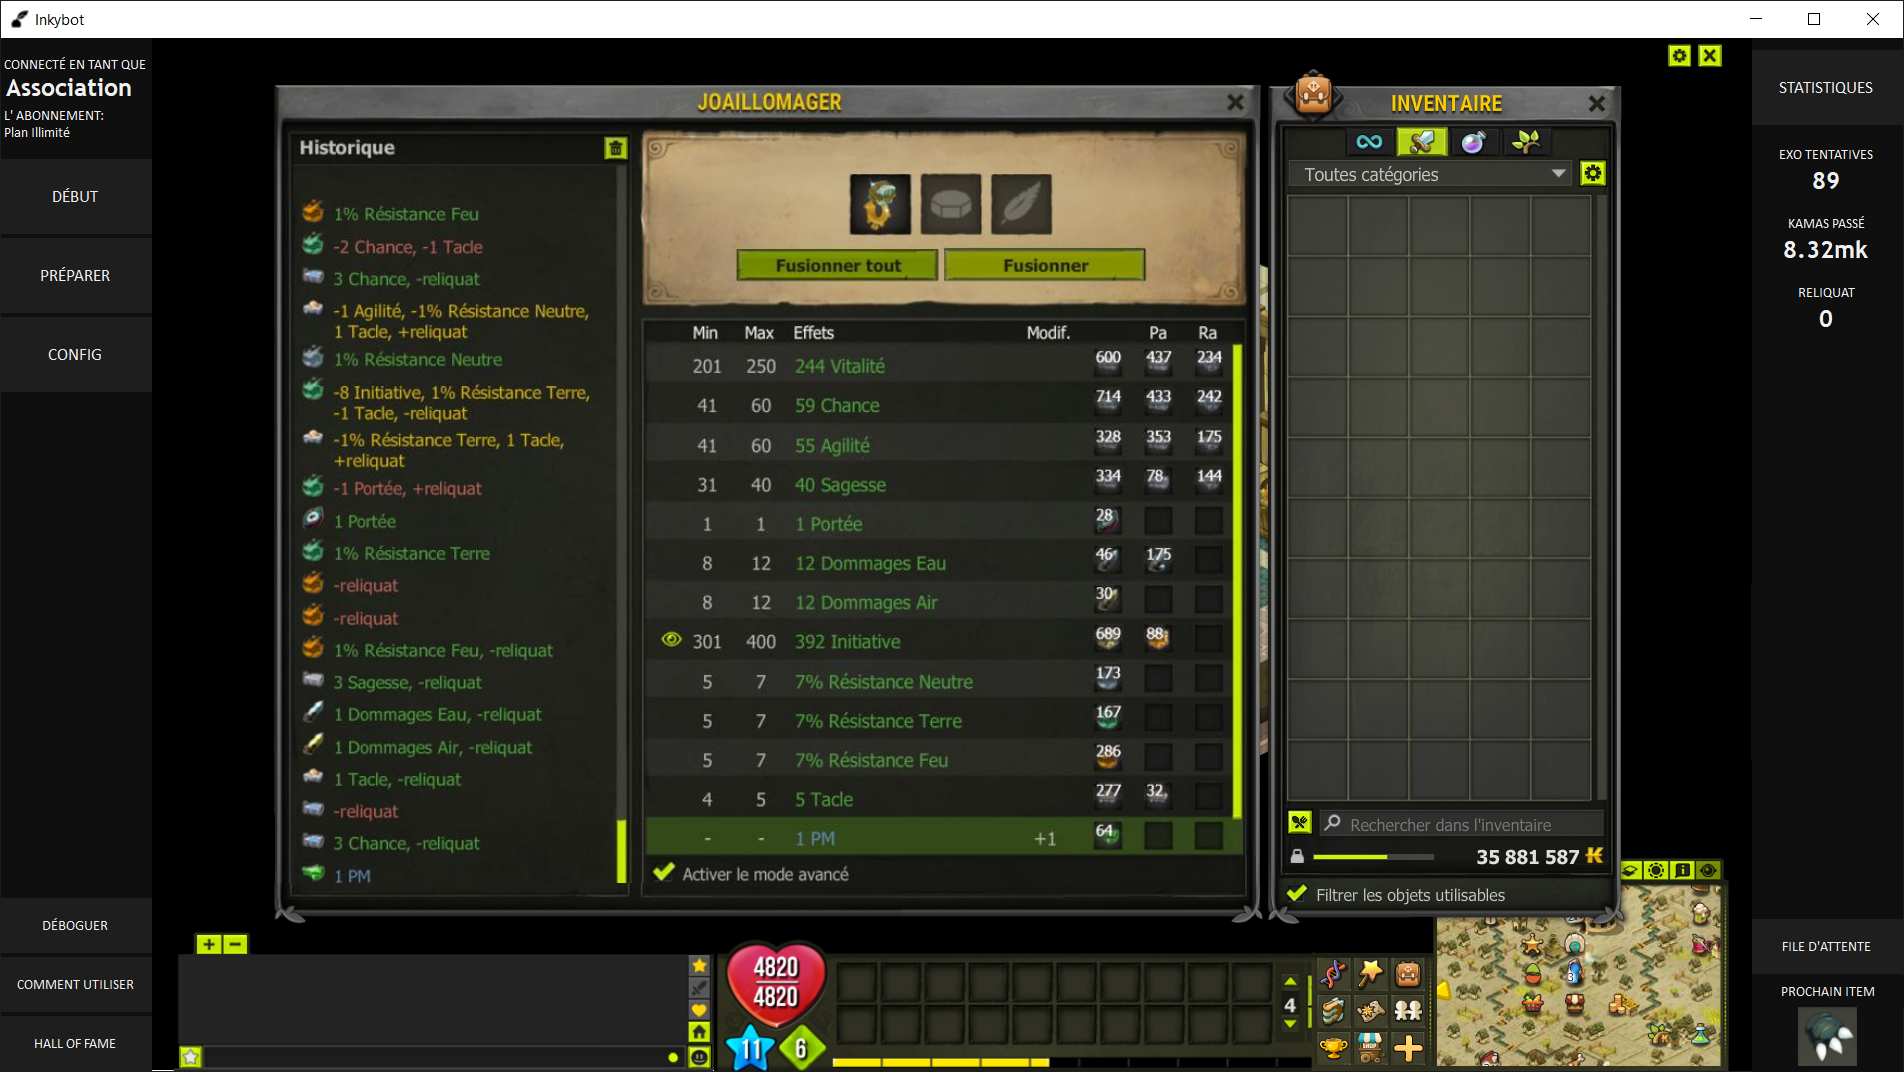
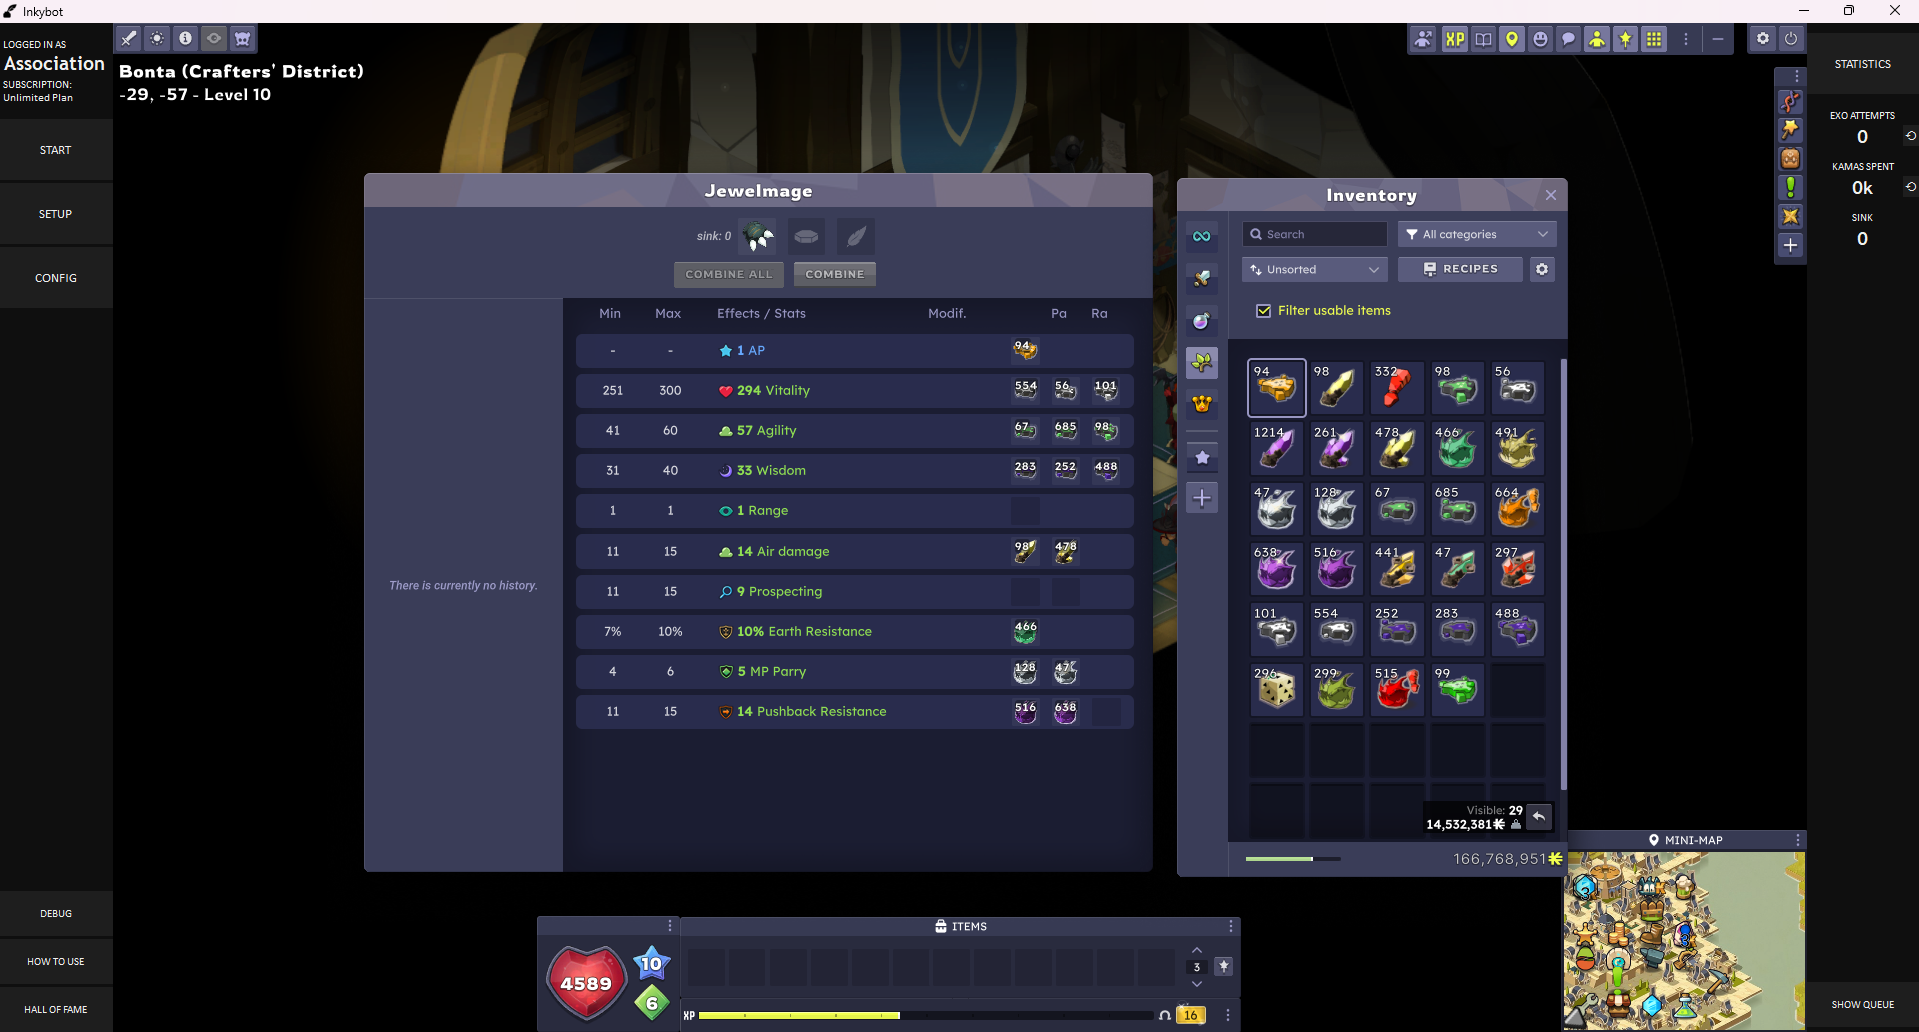
inky v3.0, free for now, release notes, etc

diff --git a/resources/views/release/22.blade.php b/resources/views/release/22.blade.php
@@ -1,0 +1,219 @@
+@extends('layouts.release')
+
+@section('date', '22nd December 2024')
+@section('welcome', 'Welcome to the first release of this series!')
+
+@section('content')
+
+    <section class="bg-white py-8 border-b">
+
+
+        <div class="container mx-auto flex flex-col lg:flex-row pt-4 pb-12">
+
+            <div class="mx-auto flex flex-col w-full lg:w-3/5 p-6">
+
+                <h2 class="w-full my-2 text-5xl font-bold leading-tight text-gray-800">What's changed</h2>
+                <div class="w-full mb-4">
+                    <div class="h-1 gradient w-64 opacity-25 my-0 py-0 rounded-t"></div>
+                </div>
+
+                <ul class="text-black">
+                    <li class="p-3 pl-0 flex">
+                        <i class="fas fa-plus text-3xl mr-3"></i>
+                        <span class="pt-1">
+                            Compatibility with <strong>Dofus 3</strong>
+                        </span>
+                    </li>
+                    <li class="p-3 pl-0 flex">
+                        <i class="fas fa-plus text-3xl mr-3"></i>
+                        <span class="pt-1">
+                            Improved <strong>consistency</strong> of operating system actions: screenshots, input events
+                        </span>
+                    </li>
+                    <li class="p-3 pl-0 flex">
+                        <i class="fas fa-plus text-3xl mr-3"></i>
+                        <span class="pt-1">
+                            Improved compatibility to mage <strong>several more items</strong> within Dofus
+                        </span>
+                    </li>
+                    <li class="p-3 pl-0 flex">
+                        <i class="fas fa-plus text-3xl mr-3"></i>
+                        <span class="pt-1">
+                            Adapted hall of fame screenshots to <strong>hide</strong> the underlying user's personal information
+                        </span>
+                    </li>
+                    <li class="p-3 pl-0 flex">
+                        <i class="fas fa-plus text-3xl mr-3"></i>
+                        <span class="pt-1">
+                            Improved <strong>detaching</strong> of Inkybot from Dofus when the window is closed so you needn't restart Dofus to
+                            exit Inkybot
+                        </span>
+                    </li>
+                </ul>
+
+                <h2 class="w-full my-2 text-5xl font-bold leading-tight text-gray-800 mt-10">What's broken</h2>
+                <div class="w-full mb-4">
+                    <div class="h-1 gradient w-64 opacity-25 my-0 py-0 rounded-t"></div>
+                </div>
+
+                <ul class="text-black">
+                    <li class="p-3 pl-0 flex">
+                        <i class="fas fa-minus text-3xl mr-3"></i>
+                        <span class="pt-1">
+                            Reduced <strong>OCR accuracy</strong> due to changes in fine-tuning for new Dofus interface
+                            This includes: incorrect sink reading, minimum and maximum values. Current stat value readings
+                            appear to be consistently correct.
+                        </span>
+                    </li>
+                    <li class="p-3 pl-0 flex">
+                        <i class="fas fa-minus text-3xl mr-3"></i>
+                        <span class="pt-1">
+                            The maging history is no longer parsed, which has <strong>weakened safeguards</strong> that verify
+                            that Inkybot is behaving as expected
+                        </span>
+                    </li>
+                    <li class="p-3 pl-0 flex">
+                        <i class="fas fa-minus text-3xl mr-3"></i>
+                        <span class="pt-1">
+                            Injected input commands no longer function, Inkybot now <strong>takes full control</strong> of your mouse and keyboard during operation
+                        </span>
+                    </li>
+                    <li class="p-3 pl-0 flex">
+                        <i class="fas fa-minus text-3xl mr-3"></i>
+                        <span class="pt-1">
+                            Inkybot must always be attached to the Dofus window <strong>after you've logged in</strong> and selected your character, or the window freezes
+                        </span>
+                    </li>
+                </ul>
+
+
+                <h2 class="w-full my-2 text-5xl font-bold leading-tight text-gray-800 mt-10">Upcoming</h2>
+                <div class="w-full mb-4">
+                    <div class="h-1 gradient w-64 opacity-25 my-0 py-0 rounded-t"></div>
+                </div>
+
+                <ul class="text-black">
+                    <li class="p-3 pl-0 flex">
+                        <i class="fas fa-clock text-3xl mr-3"></i>
+                        <span class="pt-1">Improve <strong>OCR accuracy</strong> which will improve general behavior of the bot (fewer crashes, unexpected interrupts)</span>
+                    </li>
+                    <li class="p-3 pl-0 flex">
+                        <i class="fas fa-clock text-3xl mr-3"></i>
+                        <span class="pt-1">Enable the use of Inkybot in the <strong>background</strong> (so it doesn't take control of your cursor)</span>
+                    </li>
+                    <li class="p-3 pl-0 flex">
+                        <i class="fas fa-clock text-3xl mr-3"></i>
+                        <span class="pt-1">Bring back several <strong>safeguards</strong></span>
+                    </li>
+                    <li class="p-3 pl-0 flex">
+                        <i class="fas fa-clock text-3xl mr-3"></i>
+                        <span class="pt-1">Improve <strong>speed</strong> of Inkybot operation
+                    </li>
+                    <li class="p-3 pl-0 flex">
+                        <i class="fas fa-clock text-3xl mr-3"></i>
+                        <span class="pt-1">Rewrite <strong>usage instructions</strong> and rebrand website with Dofus 3 screenshots
+                    </li>
+                    <li class="p-3 pl-0 flex">
+                        <i class="fas fa-clock text-3xl mr-3"></i>
+                        <span class="pt-1">Fix <strong>cryptocurrency</strong> payments
+                    </li>
+                </ul>
+
+            </div>
+
+            <x-limitations :restrictions="['administrator', '1920x1080-recommend', 'mouse']" />
+        </div>
+
+    </section>
+
+    <div class="anchor" id="usage"></div>
+    <section class="bg-gray-100 py-8 pb-12">
+
+        <div class="container mx-auto px-2 pt-4 pb-2 text-gray-800">
+
+            <h2 class="w-full my-2 text-5xl font-bold leading-tight text-center text-gray-800">How to use</h2>
+            <div class="w-full mb-4">
+                <div class="h-1 mx-auto gradient w-64 opacity-25 my-0 py-0 rounded-t"></div>
+            </div>
+
+            <div class="px-4 lg:px-0">
+                <h3 class="mt-10 w-full text-xl font-bold leading-tight text-gray-700 uppercase">
+                    1. Open Inkybot as administrator and Login
+                </h3>
+                <p class="text-base">You will need to login to your Inkybot account to gain access to the Dofus client. From there on
+                    you can login to your Dofus account as you would normally.</p>
+            </div>
+
+            <img src="{{ asset('images/releases/login.jpg') }}" class="shadow-lg rounded-t rounded-b-xl my-4" alt="Login to your Dofus Account" height="1919" width="1040">
+
+            <div class="anchor" id="full-screen"></div>
+            <div class="px-4 lg:px-0">
+                <h3 class="mt-10 w-full text-xl font-bold leading-tight text-gray-700 uppercase">
+                    2. Assign the appropriate in-game settings
+                </h3>
+                <p class="text-base">
+                    It is essential you put your <strong>graphics settings as high</strong> as possible, especially <strong>anti-aliasing</strong>.
+                    In general, if you can see the text better, so can Inkybot. Remember, we use OCR to gather in-game information.
+                </p>
+                <p class="text-base">
+                    Also, make sure you turn off <strong>Full screen mode</strong> as it will mess up Inkybot's OCR bounds.
+                    You may have to restart Inkybot after changing this setting.
+                </p>
+            </div>
+            <div class="flex flex-wrap">
+                <img src="{{ asset('images/ingame_settings.png') }}"
+                     class="lg:w-1/2 w-full shadow-lg rounded-t rounded-b-xl my-4 object-contain"
+                     alt="Assign the correct Performance settings in-game">
+                <img src="{{ asset('images/ingame_settings_menu.png') }}"
+                     class="lg:w-1/2 w-full shadow-lg rounded-t rounded-b-xl my-4 object-contain"
+                     alt="Assign the correct Menu settings in-game">
+            </div>
+
+            <div class="anchor" id="ocr-bounds"></div>
+            <div class="px-4 lg:px-0">
+                <h3 class="mt-10 w-full text-xl font-bold leading-tight text-gray-700 uppercase">
+                    3. Ensure the OCR indicators cover the appropriate bounds
+                </h3>
+                <p class="text-base">
+                    You can view the OCR bounds by pressing the "Debug" button on the sidebar. The OCR bounds adjust
+                    according to the window.
+                </p>
+                <p class="text-base">
+                    We <strong>highly recommend</strong> you run Inkybot <strong>maximized</strong> as this will
+                    improve OCR results, thus minimizing error.
+                </p>
+            </div>
+
+            <img src="{{ asset('images/releases/2.58_ocrindicators.png') }}"
+                 class="shadow-lg rounded-t rounded-b-xl my-4"
+                 alt="Ensure that the OCR indicators are correctly positioned">
+
+            <div class="anchor" id="advanced-mode"></div>
+            <div class="px-4 lg:px-0">
+                <h3 class="mt-10 w-full text-xl font-bold leading-tight text-gray-700 uppercase">
+                    4. Activate Advanced Mode
+                </h3>
+                <p class="text-base">
+                    Make sure you enable "Advanced Mode" in-game. You can find this option on the maging table under the item stats.
+                </p>
+            </div>
+            <img src="{{ asset('images/releases/advanced_mode.png') }}"
+                 class="shadow-lg rounded my-4"
+                 alt="Activate advanced mode in the maging table">
+
+            <div class="px-4 lg:px-0">
+                <h3 class="mt-10 w-full text-xl font-bold leading-tight text-gray-700 uppercase">
+                    5. Configure your stats and begin maging!
+                </h3>
+                <p class="text-base">
+                    You can access the stats configurator by pressing the "Stats" button on the sidebar.
+                    You will know the bot is finished when it removes the item from the maging table. Voilà!
+                </p>
+            </div>
+
+            @include('partials.from_to')
+        </div>
+
+    </section>
+
+@endsection

diff --git a/resources/views/partials/nav.blade.php b/resources/views/partials/nav.blade.php
@@ -5,11 +5,12 @@
 
         <div class="flex justify-between lg:w-auto w-full">
             <div class="pl-4 flex items-center">
-                <a class="toggleColour text-white no-underline hover:no-underline font-bold text-2xl lg:text-4xl"  href="{{ route('home') }}" aria-label="{{ __('common.home') }}">
+                <a class="toggleColour text-white no-underline hover:no-underline font-bold text-2xl lg:text-4xl relative"  href="{{ route('home') }}" aria-label="{{ __('common.home') }}">
                     <svg class="h-8 fill-current inline" xmlns="http://www.w3.org/2000/svg" xmlns="http://www.w3.org/2000/svg" viewBox="0 0 34 34">
                         <rect class="fill-current" x="0" y="31" width="31" height="3" transform="matrix(1,0,0,1,0,0)" />
                         <path transform="translate(3 0)" d="M 25.875 0.0625 C 7.531 0.0625 8.78125 11.4375 8.78125 11.4375 C 8.2290994 12.246696 7.6995693 13.046426 7.25 13.84375 C 7.2192731 13.898245 7.1865288 13.94563 7.15625 14 L 4 14 A 1.0001 1.0001 0 0 0 3.90625 14 A 1.001098 1.001098 0 0 0 3.5 15.90625 L 3 16 C 1.343 16 0 17.344 0 19 L 0 23 C 0 24.656 1.343 26 3 26 L 13 26 C 14.657 26 16 24.656 16 23 L 16 19 C 16 17.344 14.657 16 13 16 L 12.46875 15.875 A 1.0001 1.0001 0 0 0 12 14 L 8.78125 14 C 9.3768313 12.98664 10.046844 11.978044 10.8125 10.96875 C 10.850157 10.925536 10.924518 10.804345 10.96875 10.75 C 11.312321 10.305889 11.682667 9.871631 12.0625 9.4375 C 12.206935 9.262417 12.364614 9.0972071 12.53125 8.90625 C 14.065329 7.2428175 15.90652 5.6997788 18.0625 4.40625 C 16.2125 6.10525 13.15425 9.5635 11.65625 12.1875 C 14.10025 12.4015 17.5465 11.016 19.9375 9 C 19.3975 8.939 16.875 8.48475 16.125 7.84375 C 17.563 7.95975 19.95325 7.97425 20.90625 7.90625 C 22.84525 6.47025 25.063 3.0785 25.875 0.0625 z"/>
                     </svg> INKYBOT
+                    <span style="position: absolute; bottom: 5px; right: -38px; background: green; opacity: 90%;" class="text-sm rounded px-1">FREE</span>
                 </a>
             </div>
 

diff --git a/resources/views/components/limitations.blade.php b/resources/views/components/limitations.blade.php
@@ -4,6 +4,13 @@
         <div class="h-1 gradient w-64 opacity-25 my-0 py-0 rounded-t"></div>
     </div>
 
+    @if(in_array('1920x1080-recommend', $restrictions))
+    <h3 class="text-black text-xl font-bold"><i class="fas fa-vector-square text-3xl mr-3"></i> 1920x1080</h3>
+    <p class="text-black my-3">
+        It's strongly recommended to run this version of Inkybot in 1920x1080 resolution maximized window mode.<br>
+    </p>
+    @endif
+
     @if(in_array('1920x1080', $restrictions))
     <h3 class="text-black text-xl font-bold"><i class="fas fa-vector-square text-3xl mr-3"></i> 1920x1080</h3>
     <p class="text-black my-3">
@@ -20,7 +27,7 @@
     @if(in_array('administrator', $restrictions))
     <h2 class="text-black text-xl font-bold"><i class="fas fa-shield-alt text-3xl mr-3"></i> Administrator mode</h2>
     <p class="text-black my-3">
-        The bot must be run in administrator mode.<br>
+        The bot must be run in administrator mode and added as an exception to your Antivirus.<br>
     </p>
     @endif
 
@@ -47,6 +54,13 @@
         You must <span class="underline">not</span> run other applications (notably, games) in <strong>exclusive-fullscreen mode</strong>!<br>
         Make sure you are running them in <strong>borderless-fullscreen mode</strong>.<br>
         Because of how Windows works, it can interfere with Inkybot's operation.
+    </p>
+    @endif
+
+    @if(in_array('mouse', $restrictions))
+    <h2 class="text-black text-xl font-bold"><i class="fas fa-mouse text-3xl mr-3"></i> Takes control</h2>
+    <p class="text-black my-3">
+        Inkybot will take control of your mouse and keyboard, which means you can't do anything else on your machine while it's in operation.
     </p>
     @endif
 

diff --git a/app/Models/User.php b/app/Models/User.php
@@ -178,11 +178,16 @@ class User extends Authenticatable implements MustVerifyEmail
 
     public function subscribedDeprecated()
     {
-        return !!optional($this->subscribed_to)->isAfter(now());
+        return true; // todo temporary everyone subscribed
+        //return !!optional($this->subscribed_to)->isAfter(now());
     }
 
     public function subscription($name = 'default')
     {
+        $cashierSubscription = $this->cashierSubscription($name);
+        if ($cashierSubscription) {
+            return $cashierSubscription;
+        }
         if ($this->subscribedDeprecated()) {
 
             $dummySubscription = $this->subscriptions()->make([
@@ -197,7 +202,7 @@ class User extends Authenticatable implements MustVerifyEmail
             return $dummySubscription;
         }
 
-        return $this->cashierSubscription($name);
+        return $cashierSubscription;
     }
 
     public function subscribed($name = 'default', $plan = null)

diff --git a/resources/views/install.blade.php b/resources/views/install.blade.php
@@ -69,6 +69,10 @@
                  class="my-4"
                  alt="{{ __('install.step_download_img_alt') }}">
 
+            <img src="{{ asset('images/installation/windows-feature-media-features.png') }}"
+                 class="my-4"
+                 alt="{{ __('install.step_download_img_alt') }}">
+
             <div class="anchor" id="antivirus"></div>
             <div class="px-4 lg:px-0">
                 <h3 class="mt-10 w-full text-xl font-bold leading-tight text-gray-700 uppercase">

diff --git a/resources/views/profile.blade.php b/resources/views/profile.blade.php
@@ -15,8 +15,7 @@
             <p class="leading-normal text-2xl mb-8">
                 @subscribed
                     {{ __('profile.subscribed') }}
-
-                    @if (Auth::user()->validSubscription()->quantity > 1)
+                    @if (optional(Auth::user()->validSubscription())->quantity > 1)
                         // <b>{{ __('profile.instances', ['number' => Auth::user()->validSubscription()->quantity ]) }}</b>
                     @endif
                 @else

diff --git a/app/Http/Controllers/AppController.php b/app/Http/Controllers/AppController.php
@@ -19,7 +19,7 @@ class AppController extends Controller
             }, []);
 
             $gameVersion = Str::after(
-                data_get($response, 'games.dofus.platforms.windows.main', config('app.latest_dofus_version')),
+                data_get($response, 'games.dofus.platforms.windows.dofus3', config('app.latest_dofus_version')),
                 '_');
 
             Cache::put('game_version', $gameVersion, now()->addDay());

diff --git a/app/Http/Controllers/ApiController.php b/app/Http/Controllers/ApiController.php
@@ -205,7 +205,6 @@ class ApiController extends Controller
         ]);
         $image = Image::make($request->file('image'))->encode('jpg');
         $image->insert(asset('images/inkybot_watermark.png'), 'bottom-right');
-        $image->insert(asset('images/smithmagus_parachment_watermark.png'), 'top-right', 8, 39);
 
         $fileName = Str::random(40).'.jpg';
         $path = "public/mages/{$request->user()->id}";

diff --git a/app/Listeners/EnforceUniqueUserAccessToken.php b/app/Listeners/EnforceUniqueUserAccessToken.php
@@ -45,7 +45,9 @@ class EnforceUniqueUserAccessToken
             $tokensToDelete = $user->tokens()
                 ->where('name', '!=', $token->name)
                 ->get()
-                ->skip($skip);
+                ->groupBy('name')
+                ->skip($skip)
+                ->flatten();
             if ($tokensToDelete->isEmpty()) {
                 return;
             }

diff --git a/resources/lang/fr/messages.php b/resources/lang/fr/messages.php
@@ -1,7 +1,7 @@
 <?php
 
 return [
-    'category' => 'Le bot de Forgemagie Dofus 2',
+    'category' => 'Le bot de Forgemagie Dofus 3',
     'heading' => 'Forgemagie.<br>Rien d\'autre.<br>Nous le faisons le mieux.',
     'subheading' => 'Dites nous quelles caractéristiques vous voulez sur vos items et nous ferons le reste!',
     'install_instructions' => 'Instruction d\'installation',

diff --git a/resources/lang/en/messages.php b/resources/lang/en/messages.php
@@ -1,7 +1,7 @@
 <?php
 
 return [
-    'category' => 'The Dofus 2 Maging bot',
+    'category' => 'The Dofus 3 Maging bot',
     'heading' => 'Maging.<br>Nothing else.<br>We do it the best.',
     'subheading' => 'Tell us what stats you want on your items and we\'ll do the rest.',
     'install_instructions' => 'Installation instructions',

diff --git a/app/ClientVersion.php b/app/ClientVersion.php
@@ -118,6 +118,11 @@ class ClientVersion
                 'code' => 'v2.2',
                 'name' => 'v2.2',
             ],
+            22 => [
+                'number' => 22,
+                'code' => 'v3.0',
+                'name' => 'v3.0',
+            ],
         ]);
     }
 
